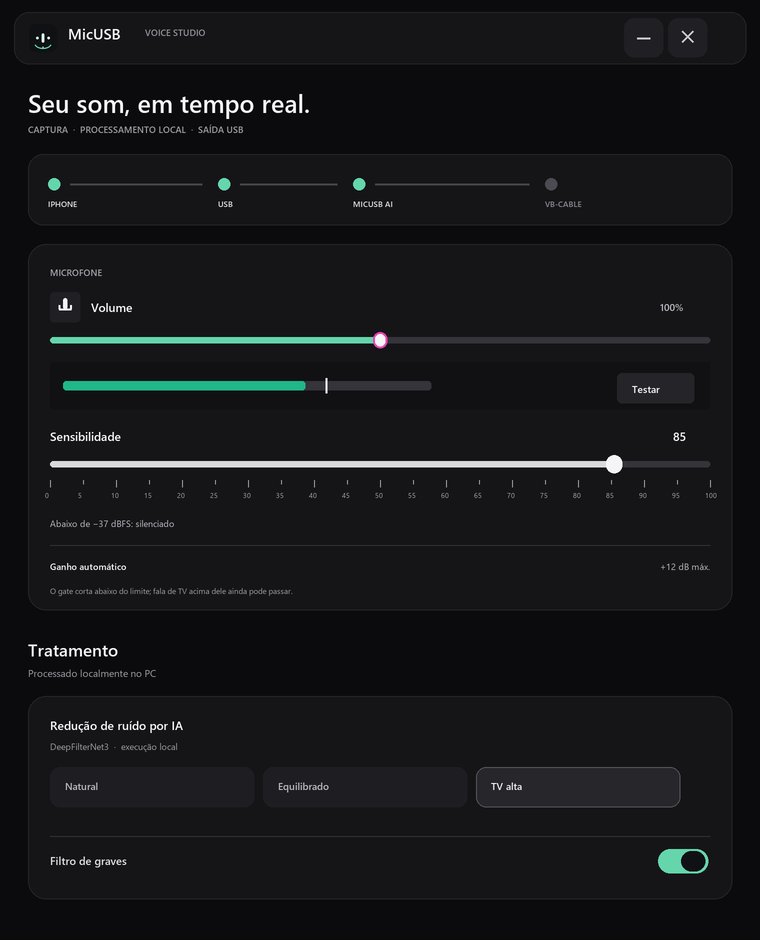
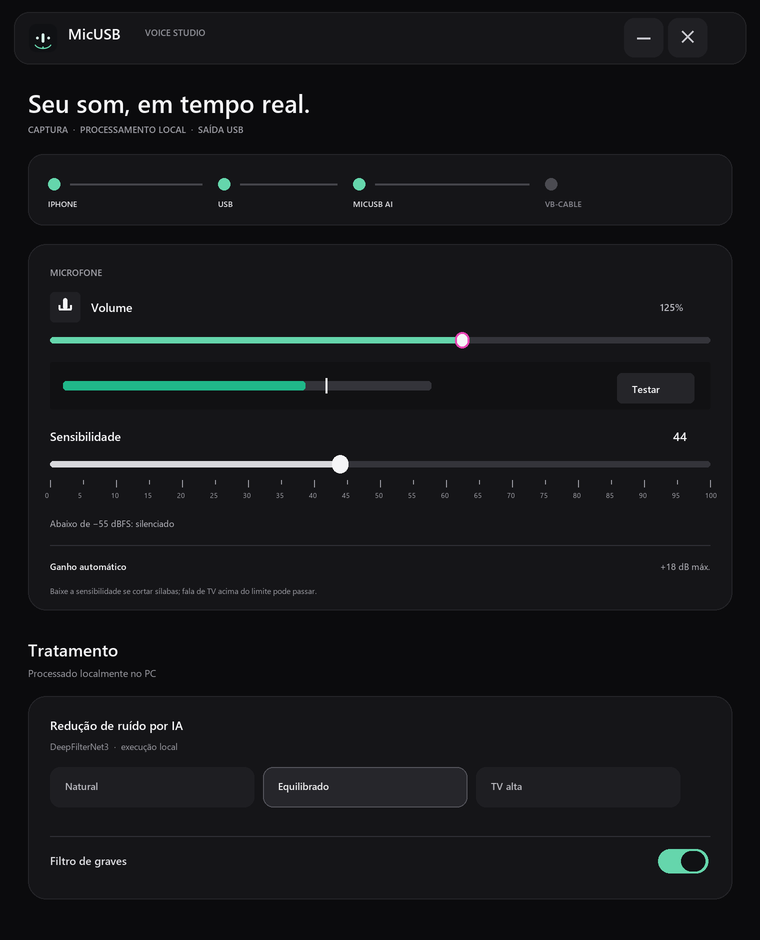
Restore voice quality and soften default gate [skip ci]

diff --git a/pc/micusb.py b/pc/micusb.py
@@ -36,18 +36,20 @@ class VoiceProcessor:
     def __init__(self, on_level=None):
         self.model = DeepFilterModel(intra_op_num_threads=1)
         self._lock = threading.Lock()
-        self._strength = "TV alta"
-        self._attenuation = {"Natural": 8.0, "Equilibrado": 16.0, "TV alta": 36.0}
+        # Prefer speech fidelity by default; very high attenuation made voices
+        # thin and warbly while still allowing intelligible TV speech through.
+        self._strength = "Equilibrado"
+        self._attenuation = {"Natural": 8.0, "Equilibrado": 16.0, "TV alta": 24.0}
         self.denoiser = self.model.new_stream(atten_lim_db=self._attenuation[self._strength])
         self.gain_db = 0.0
         self.auto_gain_max_db = 12.0
         self.auto_gain = 1.0
         self.limiter_gain = 1.0
-        self.gate_db = -37.7
+        self.gate_db = -55.0
         self.gate_gain = 0.0
         self.gate_open = False
         self.gate_hold_until = 0.0
-        self.treble_db = -2.5
+        self.treble_db = -1.0
         self.tone_lp = 0.0
         self.tone_alpha = 1.0 - math.exp(-2.0 * math.pi * 3600 / RATE)
         self.hpf_enabled = True
@@ -109,15 +111,18 @@ class VoiceProcessor:
             self.test_result = self._test_peak
             self._test_until = 0.0
 
-        if level_db >= self.gate_db:
+        # A lower opening threshold preserves quiet syllables. Once open, use
+        # 3 dB hysteresis and a longer hold to avoid chopping word endings.
+        close_threshold = self.gate_db - 3.0
+        if level_db >= self.gate_db or (self.gate_open and level_db >= close_threshold):
             self.gate_open = True
-            self.gate_hold_until = now + 0.09
+            self.gate_hold_until = now + 0.18
         elif now >= self.gate_hold_until:
             self.gate_open = False
         voice_active = self.gate_open
         target = 1.0 if voice_active else 0.0
         attack = math.exp(-1.0 / (0.005 * RATE))
-        release = math.exp(-1.0 / (0.018 * RATE))
+        release = math.exp(-1.0 / (0.060 * RATE))
         gated = np.empty_like(clean)
         gain = self.gate_gain
         for i, sample in enumerate(clean):
@@ -187,14 +192,14 @@ class MicUSBApp:
         self.stream_thread = None
         self.level = tk.DoubleVar(value=0)
         self.level_text = tk.StringVar(value="-120 dBFS")
-        self.volume_percent = tk.DoubleVar(value=100)
-        self.auto_gain_db = tk.DoubleVar(value=12)
-        self.gate_sensitivity = tk.DoubleVar(value=85)
-        self.gate_db = tk.DoubleVar(value=self.sensitivity_to_db(85))
-        self.gate_threshold_text = tk.StringVar(value=f"Abaixo de {self.sensitivity_to_db(85):.0f} dBFS: silenciado")
+        self.volume_percent = tk.DoubleVar(value=125)
+        self.auto_gain_db = tk.DoubleVar(value=18)
+        self.gate_sensitivity = tk.DoubleVar(value=44)
+        self.gate_db = tk.DoubleVar(value=self.sensitivity_to_db(44))
+        self.gate_threshold_text = tk.StringVar(value=f"Abaixo de {self.sensitivity_to_db(44):.0f} dBFS: silenciado")
         self._meter_db = -120.0
-        self.treble_db = tk.DoubleVar(value=-2.5)
-        self.strength = tk.StringVar(value="TV alta")
+        self.treble_db = tk.DoubleVar(value=-1.0)
+        self.strength = tk.StringVar(value="Equilibrado")
         self.hpf_enabled = tk.BooleanVar(value=True)
         self.echo_enabled = tk.BooleanVar(value=False)
         self.status = tk.StringVar(value="Iniciando filtro de áudio…")
@@ -285,7 +290,7 @@ class MicUSBApp:
 
         self._slider(mic, "Ganho automático (máx.)", self.auto_gain_db, 0, 18, " dB", self._set_auto_gain)
         self._slider(mic, "Brilho / suavidade", self.treble_db, -8, 3, " dB", self._set_treble)
-        tk.Label(mic, text="A sensibilidade define o limite. O sinal abaixo dele é silenciado; aumente o volume da voz se ela começar a ser cortada.", bg=CARD, fg=MUTED, font=("Segoe UI", 8), wraplength=460, justify="left").pack(fill="x", padx=14, pady=(0, 10))
+        tk.Label(mic, text="Se sua voz for cortada, diminua a Sensibilidade. O ganho aumenta sua voz e o ruído juntos; TV falando pode atravessar o filtro.", bg=CARD, fg=MUTED, font=("Segoe UI", 8), wraplength=460, justify="left").pack(fill="x", padx=14, pady=(0, 10))
 
         tk.Label(outer, text="Tratamento", bg=BG, fg=TEXT, font=("Segoe UI Variable Display", 17, "bold")).pack(anchor="w", pady=(3, 2))
         tk.Label(outer, text="Processado localmente no PC", bg=BG, fg=MUTED, font=("Segoe UI", 9)).pack(anchor="w", pady=(0, 10))

diff --git a/pc/render_reference.py b/pc/render_reference.py
@@ -48,10 +48,10 @@ rr((50, 292, 80, 322), 4, "#202024")
 rr((63, 298, 67, 309), 2, "#f5f5f7")
 line([(59,305),(59,309),(71,309),(71,305)],"#f5f5f7",2)
 txt(91, 299, "Volume", 12, "#f5f5f7", True)
-txt(W-100, 300, "100%", 10, "#b8b8bf", True)
+txt(W-100, 300, "125%", 10, "#b8b8bf", True)
 rr((50, 337, W-50, 343), 3, "#34343a")
-rr((50, 337, 380, 343), 3, "#65d6ac")
-rr((373, 332, 387, 348), 7, "#f5f5f7", "#e744b4", 2)
+rr((50, 337, 462, 343), 3, "#65d6ac")
+rr((455, 332, 469, 348), 7, "#f5f5f7", "#e744b4", 2)
 rr((50, 362, W-50, 409), 2, "#111113")
 rr((63, 381, 431, 390), 3, "#34343a")
 rr((63, 381, 305, 390), 3, "#20b789")
@@ -59,26 +59,26 @@ line([(326,378),(326,393)],"#f5f5f7",2)
 rr((W-143, 373, W-66, 403), 5, "#252529")
 txt(W-128, 382, "Testar", 10, "#f5f5f7", True)
 txt(50, 428, "Sensibilidade", 12, "#f5f5f7", True)
-txt(W-87, 428, "85", 12, "#f5f5f7", True)
+txt(W-87, 428, "44", 12, "#f5f5f7", True)
 rr((50, 461, W-50, 467), 3, "#34343a")
-rr((50, 461, 616, 467), 3, "#d9d9dd")
-rr((606, 455, 622, 473), 8, "#f5f5f7")
+rr((50, 461, 340, 467), 3, "#d9d9dd")
+rr((332, 455, 348, 473), 8, "#f5f5f7")
 for value in range(0,101,5):
     x=50+(W-100)*value/100
     line([(x,480),(x,484 if value%10 else 487)],"#98989f",1)
     txt(x-5, 490, str(value), 7, "#a1a1a8")
-txt(50, 517, "Abaixo de −37 dBFS: silenciado", 9, "#b8b8bf")
+txt(50, 517, "Abaixo de −55 dBFS: silenciado", 9, "#b8b8bf")
 line([(50,545),(W-50,545)],"#303036",1)
 txt(50, 560, "Ganho automático", 9, "#f5f5f7", True)
-txt(W-100, 560, "+12 dB máx.", 9, "#b8b8bf")
-txt(50, 585, "O gate corta abaixo do limite; fala de TV acima dele ainda pode passar.", 8, "#9999a0")
+txt(W-100, 560, "+18 dB máx.", 9, "#b8b8bf")
+txt(50, 585, "Baixe a sensibilidade se cortar sílabas; fala de TV acima do limite pode passar.", 8, "#9999a0")
 
 txt(28, 638, "Tratamento", 17, bold=True)
 txt(28, 666, "Processado localmente no PC", 10, "#9999a0")
 rr((28, 696, W-28, 899), 18, "#151518", "#252529")
 txt(50, 717, "Redução de ruído por IA", 12, bold=True)
 txt(50, 740, "DeepFilterNet3  ·  execução local", 9, "#9a9aa1")
-for box,label,sel in [((50,767,254,807),"Natural",False),((263,767,467,807),"Equilibrado",False),((476,767,680,807),"TV alta",True)]:
+for box,label,sel in [((50,767,254,807),"Natural",False),((263,767,467,807),"Equilibrado",True),((476,767,680,807),"TV alta",False)]:
     rr(box,10,"#26262b" if sel else "#1e1e22", "#55555c" if sel else None)
     txt(box[0]+15,box[1]+12,label,10,"#eeeeef" if sel else "#b7b7bd",True)
 line([(50,836),(W-50,836)],"#303036",1)

diff --git a/DESIGN.md b/DESIGN.md
@@ -12,7 +12,7 @@ The visual reference is `pc/micusb-reference.png`. The source identity is `pc/br
 
 ## Signal path and copy
 
-The path reads iPhone → USB → MicUSB AI → VB-Cable. The microphone section follows the supplied reference: volume slider, live dBFS meter with a test action, then a numbered sensitivity scale. The sensitivity control maps to a real dBFS gate; signal below that limit is attenuated to digital silence after a short release. Noise reduction is described accurately as DeepFilterNet3 running locally. “Natural”, “Equilibrado”, and “TV alta” describe increasing attenuation, not guaranteed removal of overlapping speech. TV alta is the default when background sound is the primary complaint. Do not claim that multiple physical microphones are mixed or that television speech can always be removed cleanly.
+The path reads iPhone → USB → MicUSB AI → VB-Cable. The microphone section follows the supplied reference: volume slider, live dBFS meter with a test action, then a numbered sensitivity scale. The sensitivity control maps to a real dBFS gate; signal below that limit is attenuated to digital silence with hold and release to avoid chopping syllables. Noise reduction is described accurately as DeepFilterNet3 running locally. “Natural”, “Equilibrado”, and “TV alta” describe increasing attenuation, not guaranteed removal of overlapping speech. Equilibrado is the default to preserve voice quality. Do not claim that multiple physical microphones are mixed or that television speech can always be removed cleanly.
 
 ## Interaction commitments
 
